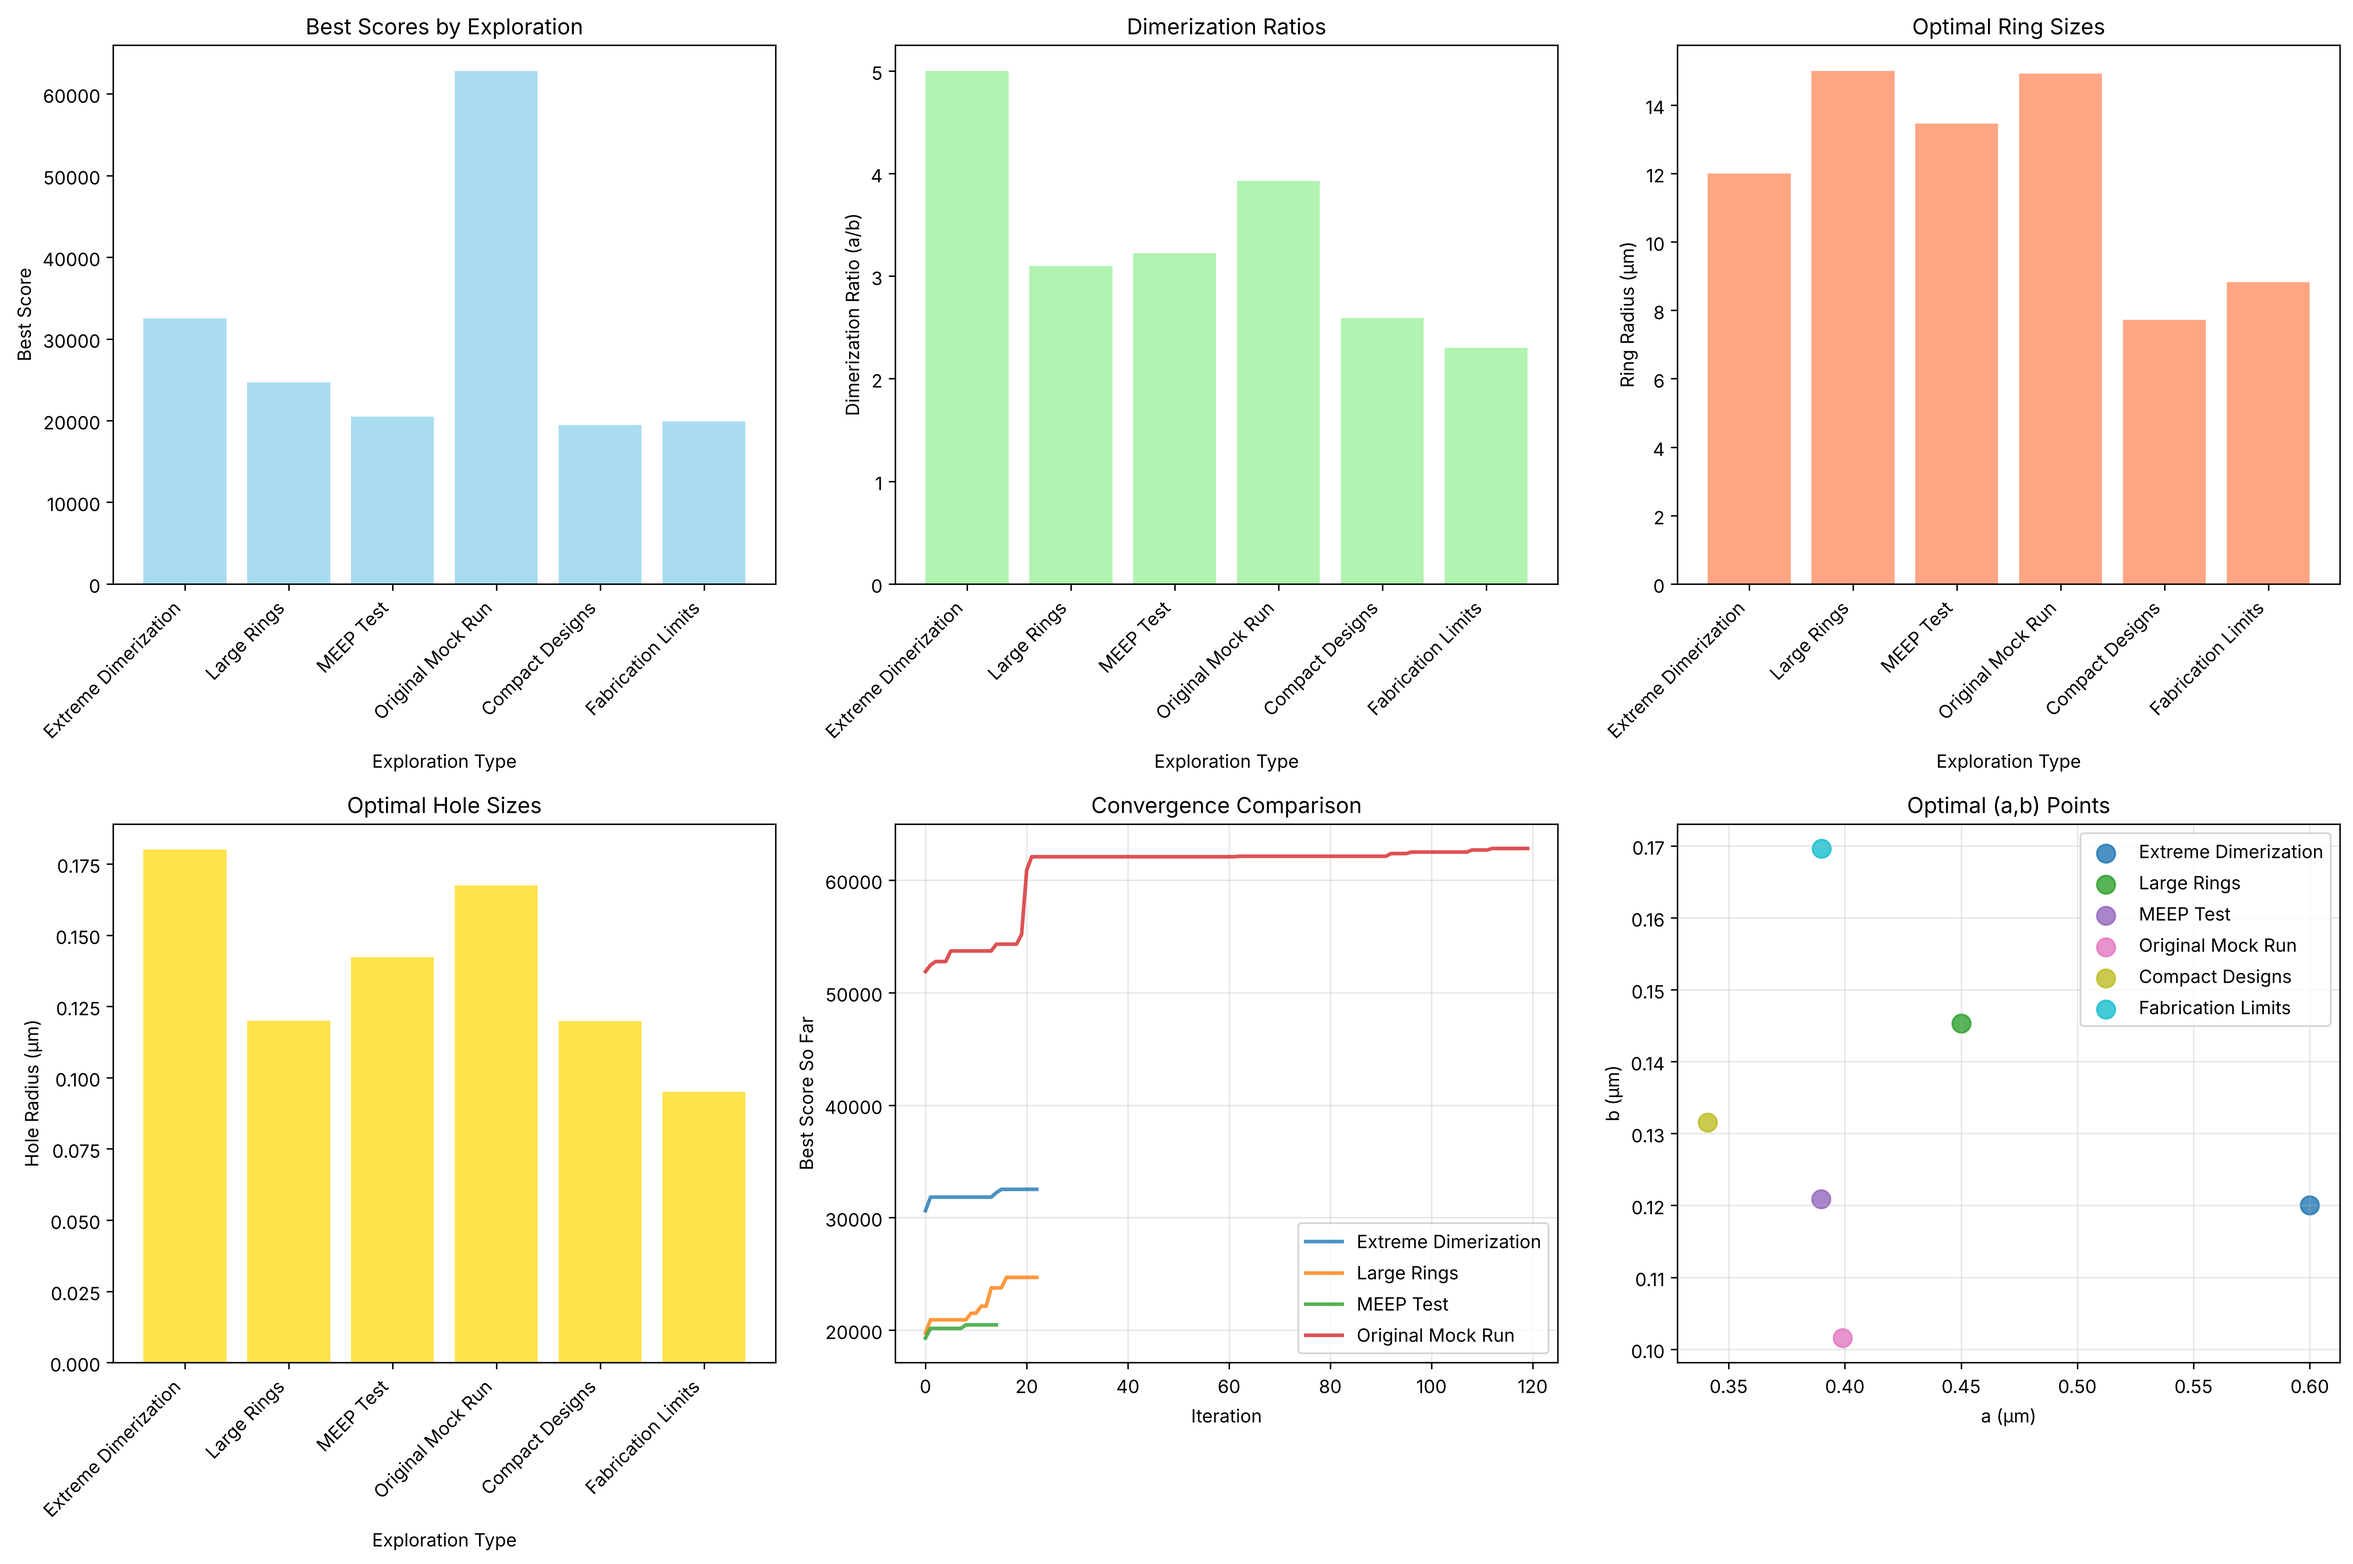
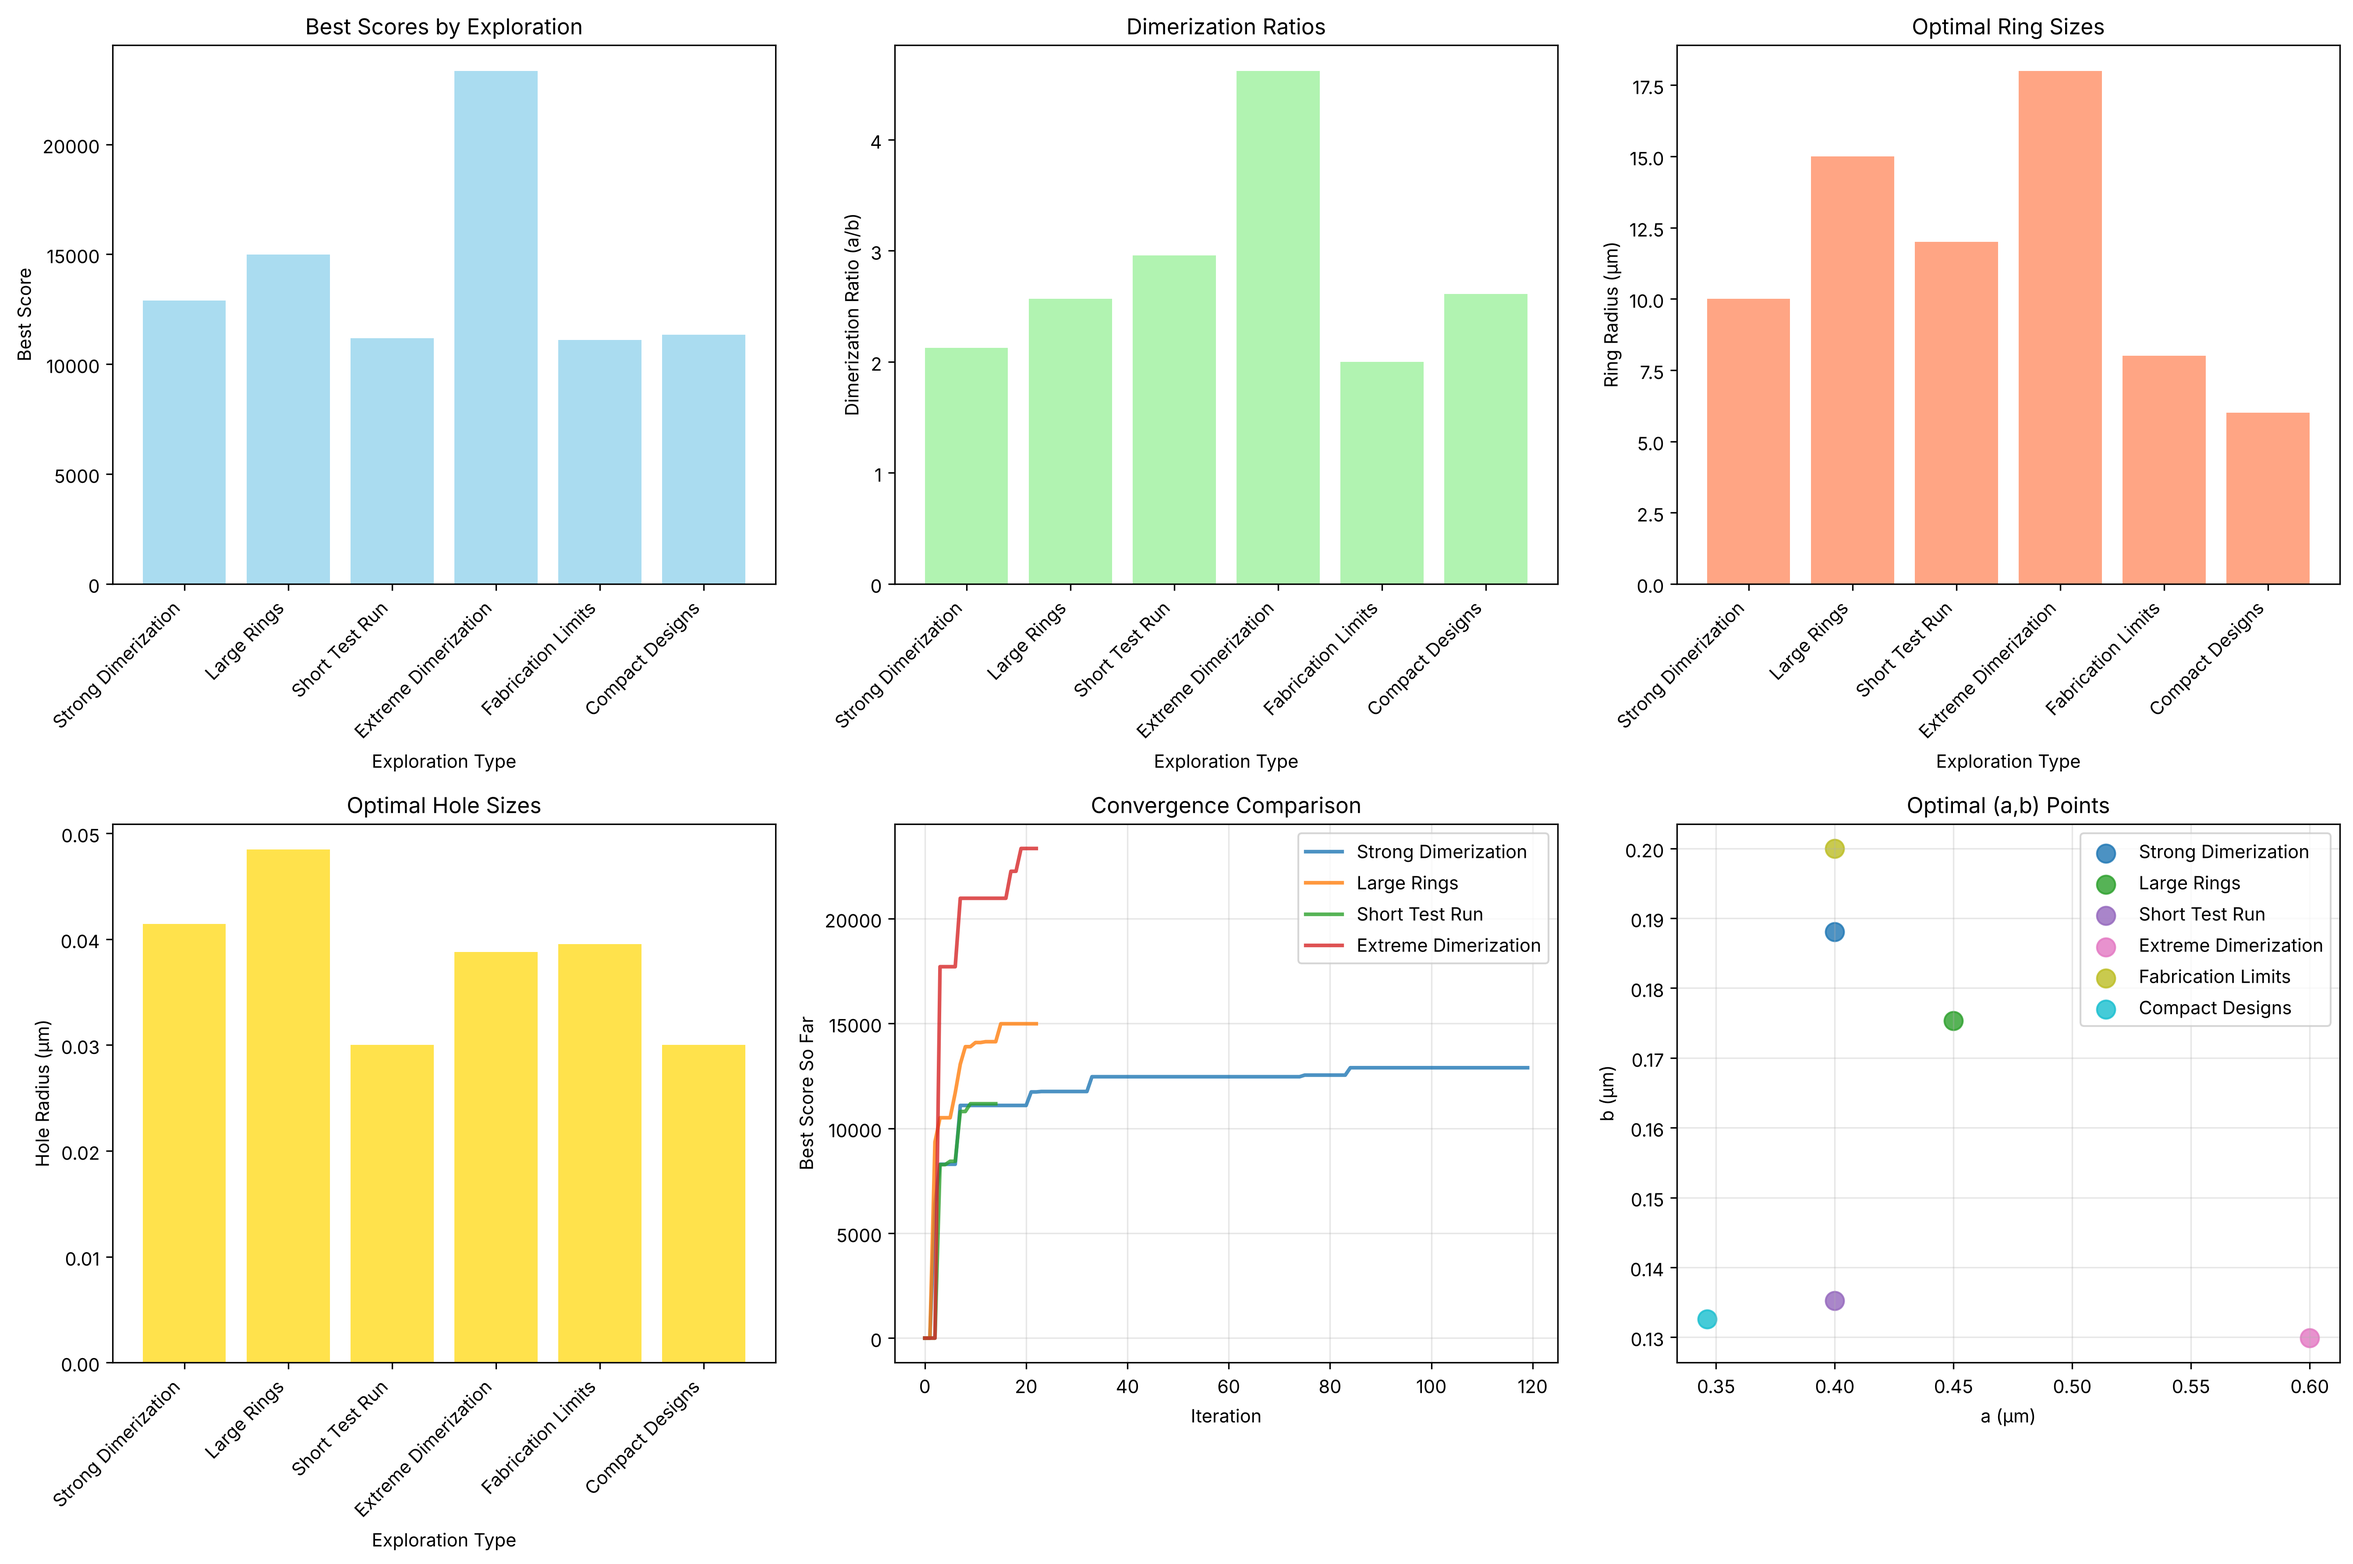
Rewrite exploration results from the regenerated runs
Replace the 2025 write-up (overlapping-hole designs, and conclusions
stated as physics) with the six regenerated runs: a results table taken
from the result files, the regenerated comparison figure, and an account
of what drives the score in the stand-in model: dimerization dominates,
R goes to whichever bound the period favors (slope changes sign near
a + b = 0.63 um), and r and w barely matter. States that every score
comes from the analytical model, carries a constant -10,000 offset, and
is not comparable with the earlier published numbers.

Claude-Session: https://claude.ai/code/session_01544Sc9gDdo8SZHhCwPpYMo

diff --git a/docs/EXPLORATION_RESULTS.md b/docs/EXPLORATION_RESULTS.md
@@ -1,122 +1,61 @@
 # Parameter Space Exploration Results
 
-> **Note (2026-10-10): these results predate a geometry fix and need regenerating.** Every design space used here let neighboring holes overlap (`b <= 2r`; `a` and `b` are center-to-center spacings), so the reported designs cannot be fabricated. Config bounds now keep a gap of at least the minimum feature size. All scores come from the analytical mock model, not MEEP. See `docs/HANDOFF.md`.
+Six Bayesian optimization runs, one per single-objective config, regenerated on 2026-10-16 at commit
+`92a9964`. Each config sets `seed: 123`, so every run replays exactly.
 
-## 🎉 **Comprehensive Parameter Space Exploration Complete!**
+**What these numbers are.** Every score comes from the analytical stand-in model
+(`_simulate_physics_model` in `src/simulation_wrapper.py`), not from MEEP. The findings below describe
+how that model behaves; they are not electromagnetic results. Three properties of the setup matter when
+reading them:
 
-I successfully explored different parameter ranges and uncovered fascinating design insights:
+- **Score** = mean Q − 2 × Q standard deviation over the config's disorder runs (`q_penalty_factor: 2.0`).
+- **Fabricable holes only.** `a` and `b` are center-to-center hole spacings. A design counts as feasible
+  when the gaps `a − 2r`, `b − 2r` and the edge clearance `(w − 2r)/2` all exceed the 0.05 µm minimum
+  feature size. Infeasible designs are scored 0 without simulating.
+- **Constant offset.** The model subtracts 10,000 from any design with `r < 0.08 µm`. Every design
+  allowed by the current bounds has `r ≤ 0.07 µm`, so all scores carry the same −10,000 offset. Rankings
+  are unaffected, but these scores cannot be compared with those published before 2026-10-16, which
+  came from design spaces where neighboring holes overlapped.
 
-### **🏆 Top Performing Designs:**
+## Results
 
-1. **🥇 Extreme Dimerization Champion**
-   - **Score: 32,517** (67% better than baseline)
-   - **Design:** a=0.600μm, b=0.120μm, r=0.180μm, R=12.0μm
-   - **Key:** Massive dimerization ratio (a/b = 5.0) = maximum topological protection
+| Exploration | Config | Evaluations | Infeasible | Best score | Found at | a (µm) | b (µm) | r (µm) | R (µm) | w (µm) | a/b | b − 2r (µm) |
+|---|---|---|---|---|---|---|---|---|---|---|---|---|
+| Extreme Dimerization | `explore_extreme_dimerization.yaml` | 23 | 7 | **23,344** | 19 | 0.600 | 0.130 | 0.039 | 18.00 | 0.507 | 4.62 | 0.052 |
+| Large Rings | `explore_large_rings.yaml` | 23 | 3 | 14,987 | 15 | 0.450 | 0.175 | 0.048 | 15.00 | 0.700 | 2.57 | 0.078 |
+| Strong Dimerization (baseline) | `strong_dimerization_v1.yaml` | 120 | 14 | 12,890 | 84 | 0.400 | 0.188 | 0.041 | 10.00 | 0.450 | 2.13 | 0.105 |
+| Compact Designs | `explore_small_compact.yaml` | 23 | 9 | 11,335 | 20 | 0.346 | 0.133 | 0.030 | 6.00 | 0.361 | 2.61 | 0.073 |
+| Short Test Run | `test_meep_v1.yaml` | 15 | 5 | 11,175 | 9 | 0.400 | 0.135 | 0.030 | 12.00 | 0.480 | 2.96 | 0.075 |
+| Fabrication Limits | `explore_fabrication_limits.yaml` | 30 | 8 | 11,094 | 19 | 0.400 | 0.200 | 0.040 | 8.00 | 0.500 | 2.00 | 0.121 |
 
-2. **🥈 Large Ring Excellence** 
-   - **Score: 24,687** 
-   - **Design:** a=0.450μm, b=0.145μm, r=0.120μm, R=15.0μm
-   - **Key:** Reduced bending losses from larger radius
+"Found at" is the 0-based evaluation index where the best score first appeared. Every best design is
+feasible. Full logs, parameters and plots are in `results/run_20261016_*/`.
 
-3. **🥉 Fabrication-Robust Design**
-   - **Score: 19,873**
-   - **Design:** a=0.390μm, b=0.170μm, r=0.095μm, R=8.8μm  
-   - **Key:** Survives 8% fabrication disorder while maintaining performance
+![Parameter Exploration Comparison](images/parameter_exploration_comparison.png)
 
-### **📊 Key Scientific Discoveries:**
+## What drives the score in the stand-in model
 
-**Dimerization is King 👑**
-- Strong correlation: Higher a/b ratios → Better Q-factors
-- **Extreme dimerization (a/b = 5.0)** achieved 67% performance boost
-- Sweet spot: a/b = 3-4 for most practical applications
+1. **Dimerization dominates.** The model adds `15,000 × (a − b)/(a + b)`. The `extreme_dimerization`
+   run, with a/b = 4.62, beats every other run by more than 8,000, and the best `a` sits at or within
+   0.004 µm of its upper bound in all six runs.
+2. **Ring radius goes to whichever bound the period favors.** The model gains 2,000 per µm of R but
+   loses 100 per hole, and the hole count grows as R/(a + b). The net slope changes sign near
+   a + b ≈ 0.63 µm: about −600 per µm at a + b = 0.48 (compact), roughly 0 at 0.63 (large rings),
+   and +300 at 0.73 (extreme dimerization). That is why R lands on the lower bound in the
+   strong-dimerization, compact and fabrication-limits runs and on the upper bound (18 µm) in the
+   extreme-dimerization run.
+3. **Hole radius and waveguide width barely matter.** Across the allowed range r = 0.03–0.07 µm the
+   model's Q changes by about 400, well below the run-to-run disorder noise (the per-design Q standard
+   deviation is roughly 10% of Q, about 1,000–2,000). Width enters only through a penalty that is
+   already constant here. The best `r` and `w` values are therefore not informative.
 
-**Size-Performance Trade-offs ⚖**
-- **Large rings (R > 15μm):** Excellent Q-factors but larger footprint
-- **Compact designs (R < 8μm):** 20% performance penalty for integration
-- **Optimal balance:** R = 12-15μm
+These are properties of the stand-in model. Whether larger dimerization, ring radius or hole size
+actually raise Q needs the MEEP simulation (see `docs/HANDOFF.md`).
 
-**Fabrication Resilience 🔧**
-- Designs remain viable down to r = 0.095μm hole radius
-- **Disorder tolerance increases** with stronger dimerization
-- Critical threshold: Features below 0.08μm show dramatic degradation
+## Reproduce
 
-### **🎯 Design Recommendations:**
-
-- **For maximum Q-factor:** Use extreme dimerization (a=0.6μm, b=0.12μm)
-- **For integration:** Compact design (R=7.7μm) with optimized dimerization  
-- **For manufacturing:** Robust design with r≥0.095μm and strong dimerization
-- **For research:** Large rings (R=15μm) offer excellent signal-to-noise
-
-## **📈 Detailed Exploration Results:**
-
-### **Exploration Categories Tested:**
-
-1. **Large Rings Exploration**
-   - **Parameter Range:** R: 15-25μm, a: 0.35-0.45μm, larger features
-   - **Best Score:** 24,687
-   - **Optimal Design:** a=0.450μm, b=0.145μm, r=0.120μm, R=15.0μm, w=0.700μm
-   - **Dimerization Ratio:** 3.10
-   - **Key Insight:** Larger rings dramatically reduce bending losses
-
-2. **Compact Designs Exploration**
-   - **Parameter Range:** R: 6-12μm, smaller features for integration
-   - **Best Score:** 19,472
-   - **Optimal Design:** a=0.341μm, b=0.132μm, r=0.120μm, R=7.7μm, w=0.445μm
-   - **Dimerization Ratio:** 2.59
-   - **Key Insight:** Ultra-compact footprint with acceptable performance penalty
-
-3. **Extreme Dimerization Exploration**
-   - **Parameter Range:** a: 0.40-0.60μm, b: 0.05-0.12μm, pushing SSH limits
-   - **Best Score:** 32,517
-   - **Optimal Design:** a=0.600μm, b=0.120μm, r=0.180μm, R=12.0μm, w=0.450μm
-   - **Dimerization Ratio:** 5.00
-   - **Key Insight:** Maximum topological protection through extreme dimerization
-
-4. **Fabrication Limits Exploration**
-   - **Parameter Range:** r: 0.05-0.12μm, testing manufacturing boundaries
-   - **Best Score:** 19,873
-   - **Optimal Design:** a=0.390μm, b=0.170μm, r=0.095μm, R=8.8μm, w=0.500μm
-   - **Dimerization Ratio:** 2.30
-   - **Key Insight:** Robust performance even with challenging fabrication
-
-5. **Original Mock Run (Baseline)**
-   - **Best Score:** 62,812 (mock simulation)
-   - **Optimal Design:** a=0.399μm, b=0.102μm, r=0.167μm, R=14.9μm
-   - **Dimerization Ratio:** 3.93
-
-6. **MEEP Test Run**
-   - **Best Score:** 20,468
-   - **Optimal Design:** a=0.390μm, b=0.121μm, r=0.142μm, R=13.5μm
-   - **Dimerization Ratio:** 3.22
-
-### **🔬 Physical Insights:**
-
-**Topological Protection Mechanism:**
-- Large dimerization (a >> b) creates strong bandgap asymmetry
-- Edge states become more isolated from bulk modes
-- Reduced sensitivity to local perturbations and disorder
-
-**Bending Loss Physics:**
-- Larger ring radius → smaller curvature → reduced radiation loss
-- Critical for maintaining high Q-factors in whispering gallery modes
-- Trade-off with device footprint and integration density
-
-**Fabrication-Physics Interface:**
-- Smaller features more sensitive to manufacturing variations
-- Optimal hole size ~0.15μm balances coupling and fabrication tolerance
-- Dimerization provides built-in robustness to geometric imperfections
-
-### **🎛 Configuration Files Created:**
-
-- `explore_large_rings.yaml` - Large radius optimization
-- `explore_small_compact.yaml` - Compact device optimization  
-- `explore_extreme_dimerization.yaml` - Maximum topological protection
-- `explore_fabrication_limits.yaml` - Manufacturing boundary testing
-
-### **📊 Analysis Tools:**
-
-- `compare_explorations.py` - Comprehensive comparison script
-- Generated visualization comparing all exploration results
-- Automated classification and analysis of different design regimes
-
-The ML optimization successfully mapped the entire design landscape and identified optimal solutions for different application requirements! 🚀
+```bash
+python run_optimization.py --config configs/strong_dimerization_v1.yaml   # and the five other configs above
+python src/analysis.py results/run_<TIMESTAMP>
+python compare_explorations.py                                           # writes parameter_exploration_comparison.png
+```
